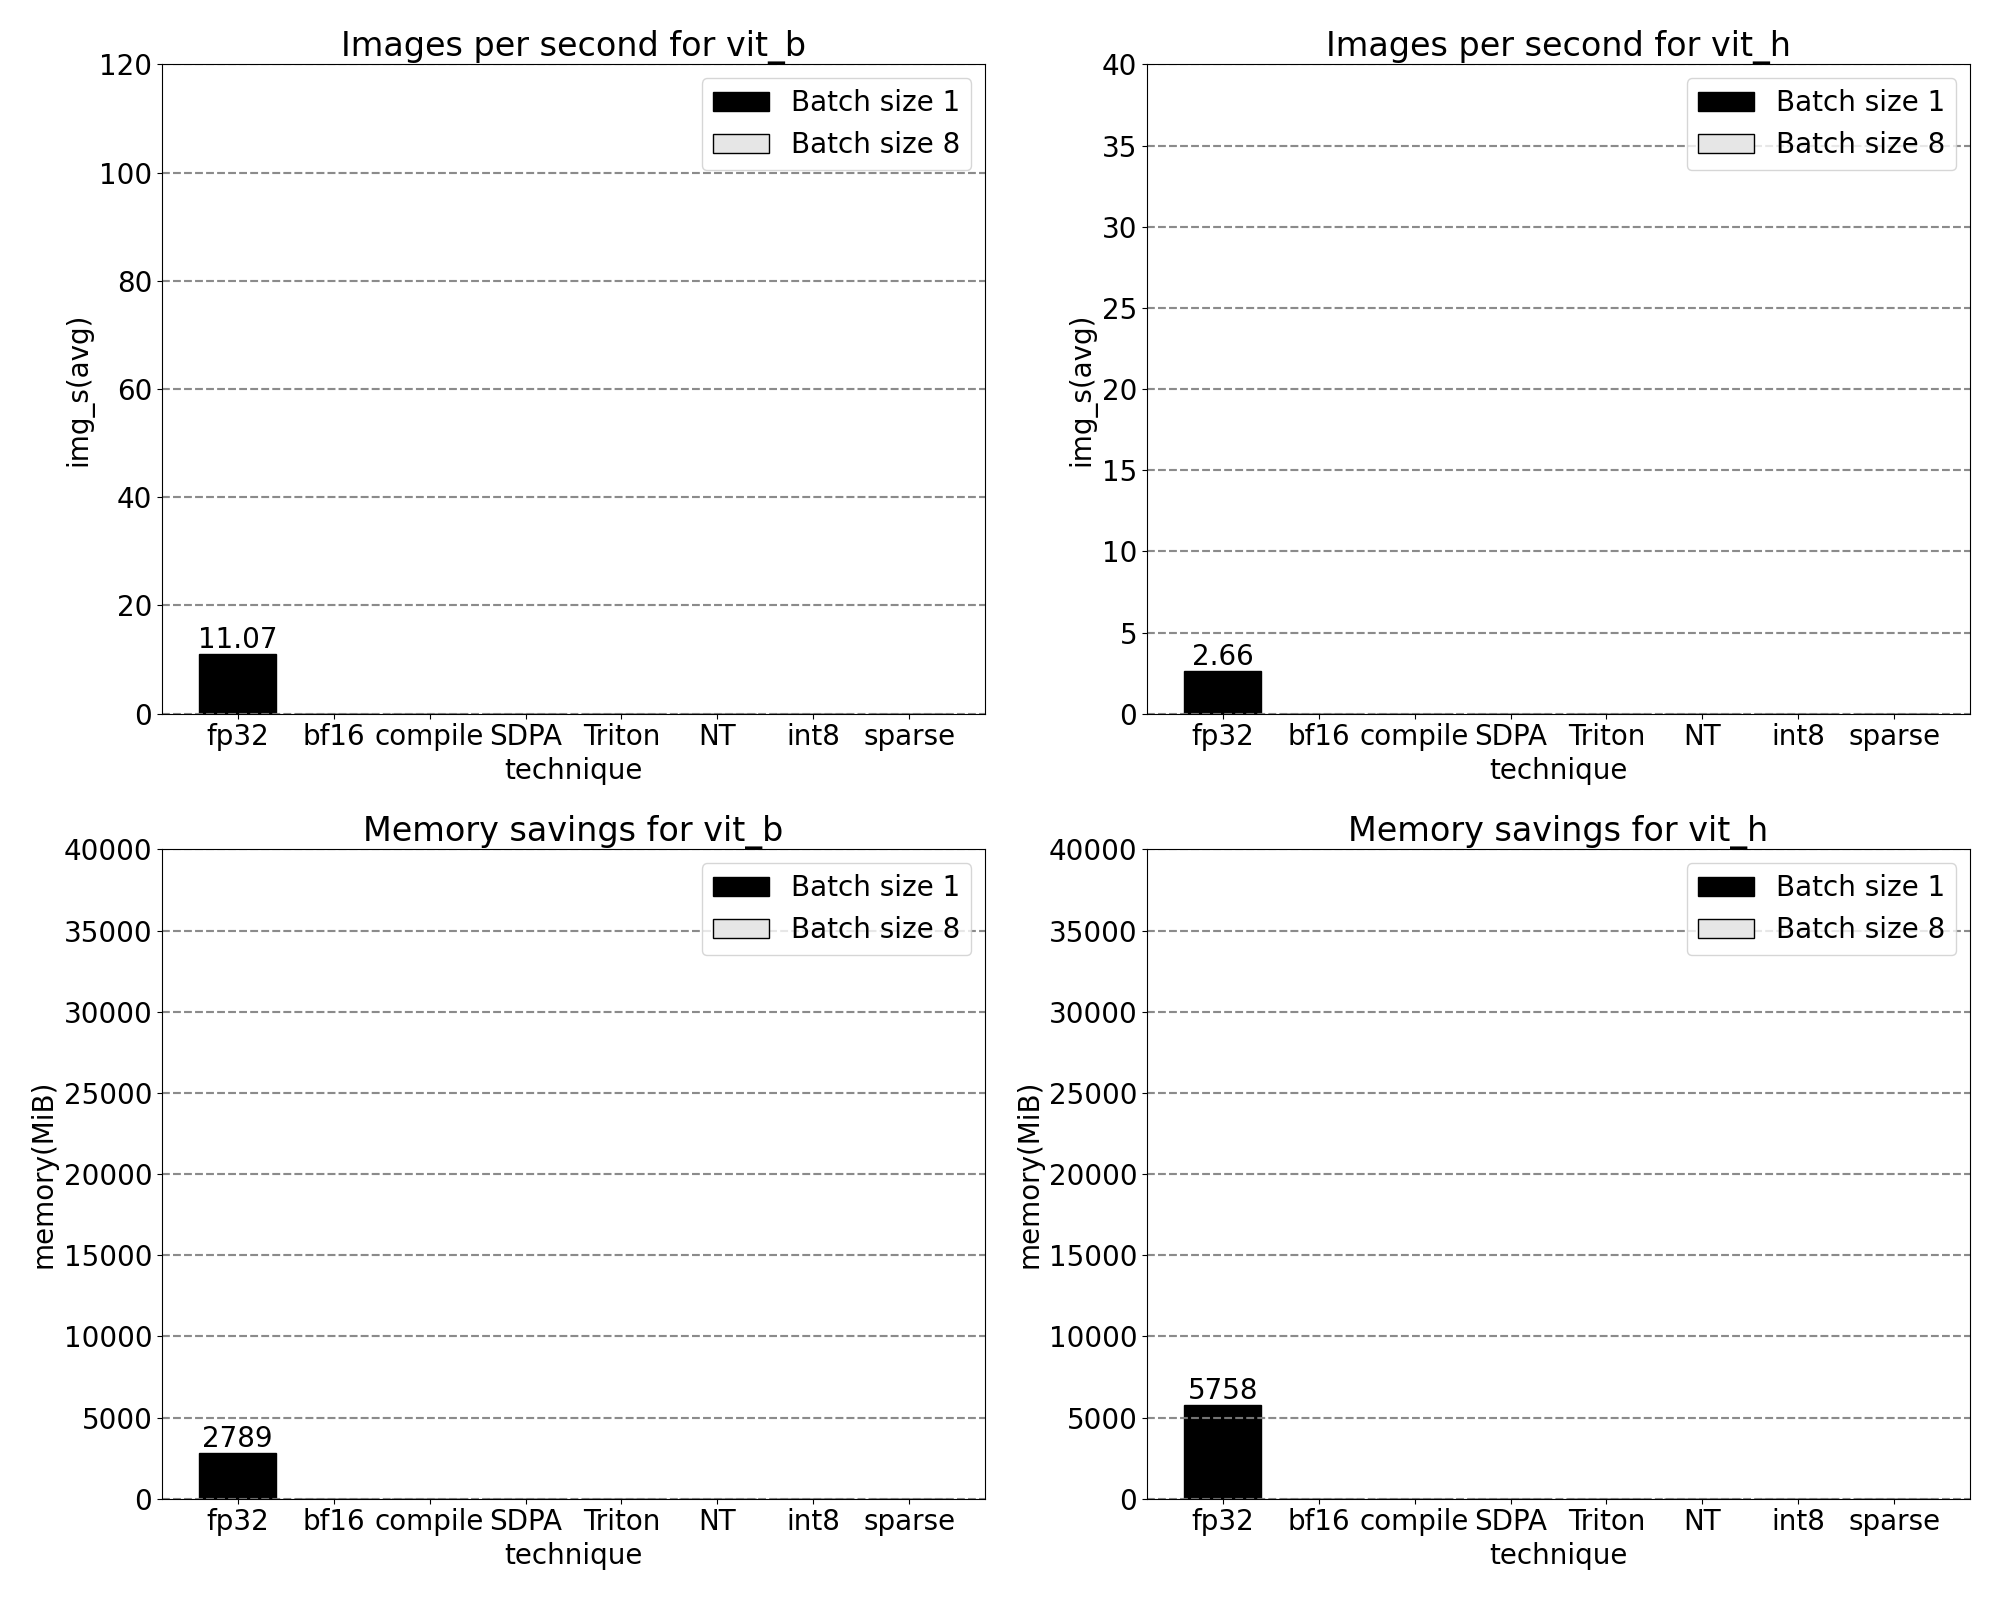
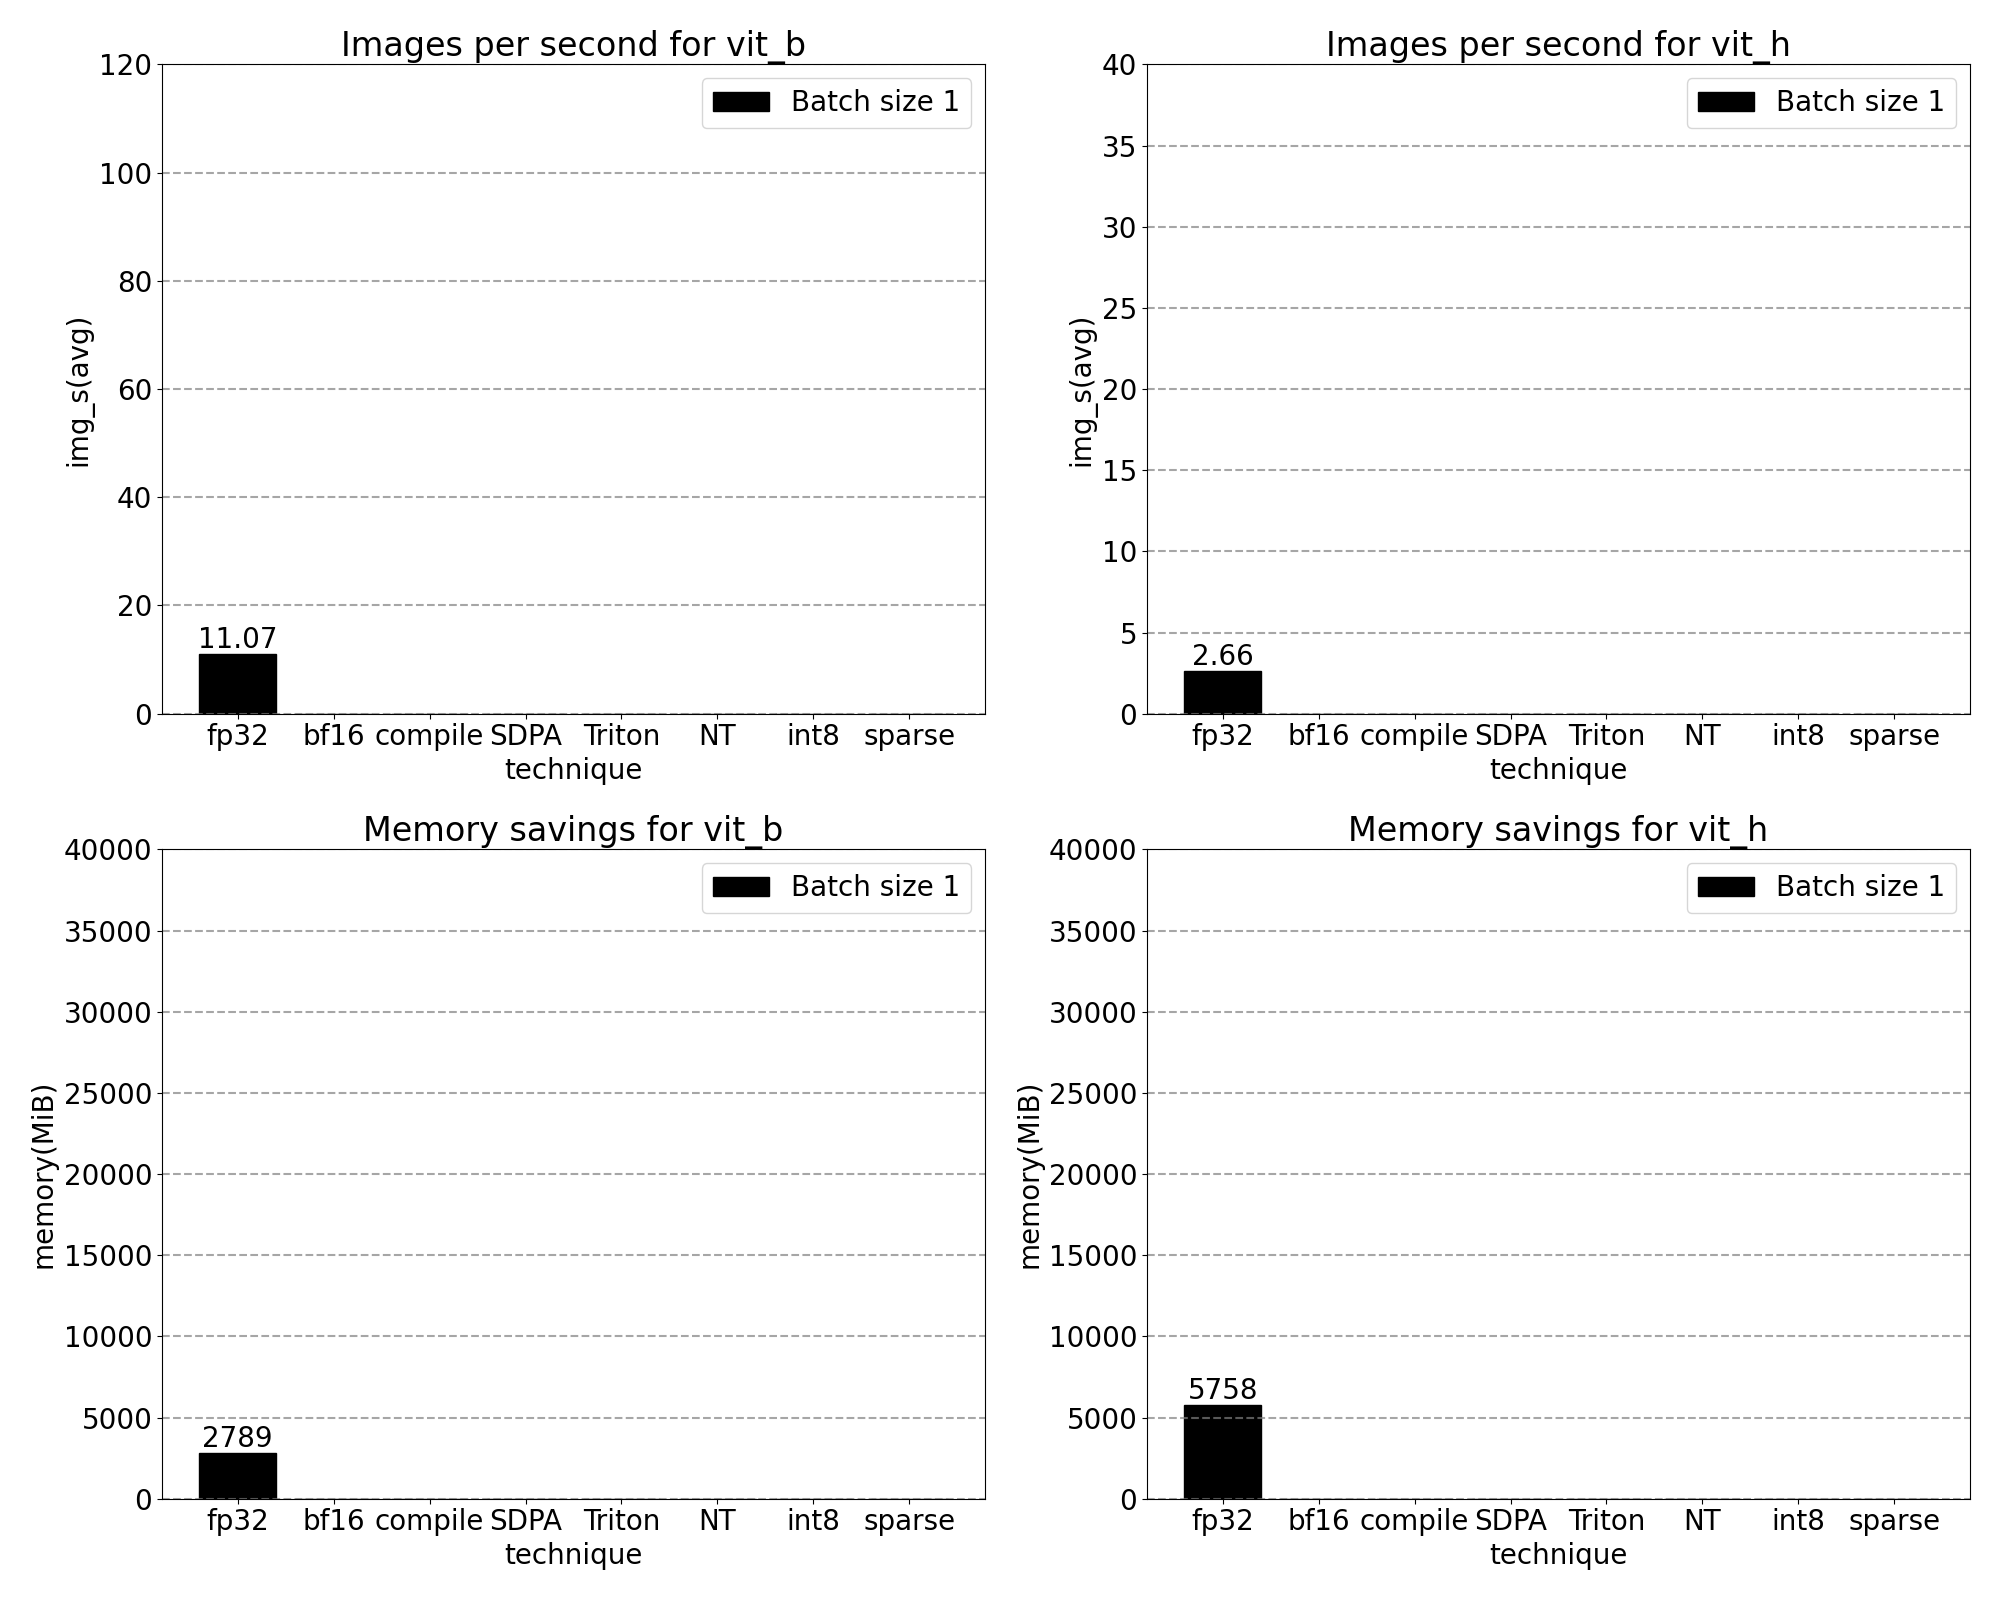
bs32 charts

diff --git a/experiments/summary_chart.py b/experiments/summary_chart.py
@@ -102,7 +102,12 @@ def run(csv_file,
         axs = np.stack([axs])
     
     for batch_size in batch_sizes:
-        color = 'black' if (batch_size == 1) else COLORS[2]
+        if batch_size == 1:
+            color = 'black'
+        elif batch_size == 32:
+            color = 'white'
+        else:
+            color = COLORS[2]
         df = mdf[mdf["batch_size"] == batch_size]
         va = "bottom"
         if 'img_s' in metrics:
